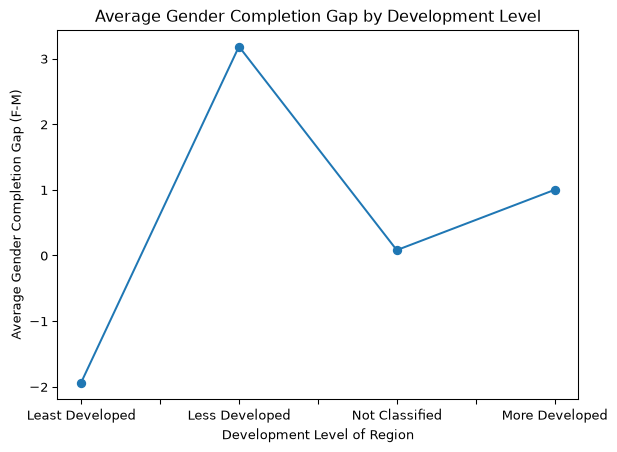
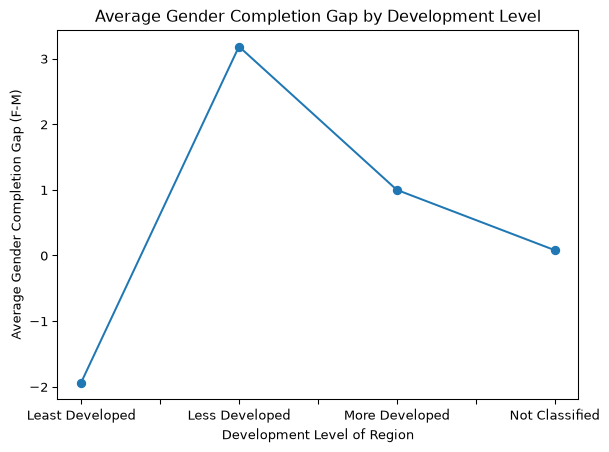
Reorder Graph - Final

diff --git a/readme.md b/readme.md
@@ -729,9 +729,9 @@ plt.figure()
 
 gap_by_development_ordered = gap_by_development.reindex([
     'Least Developed', 
-    'Less Developed', 
-    'Not Classified', 
-    'More Developed'])
+    'Less Developed',
+    'More Developed',
+    'Not Classified'])
 
 gap_by_development_ordered.plot(kind='line', marker='o')
 
